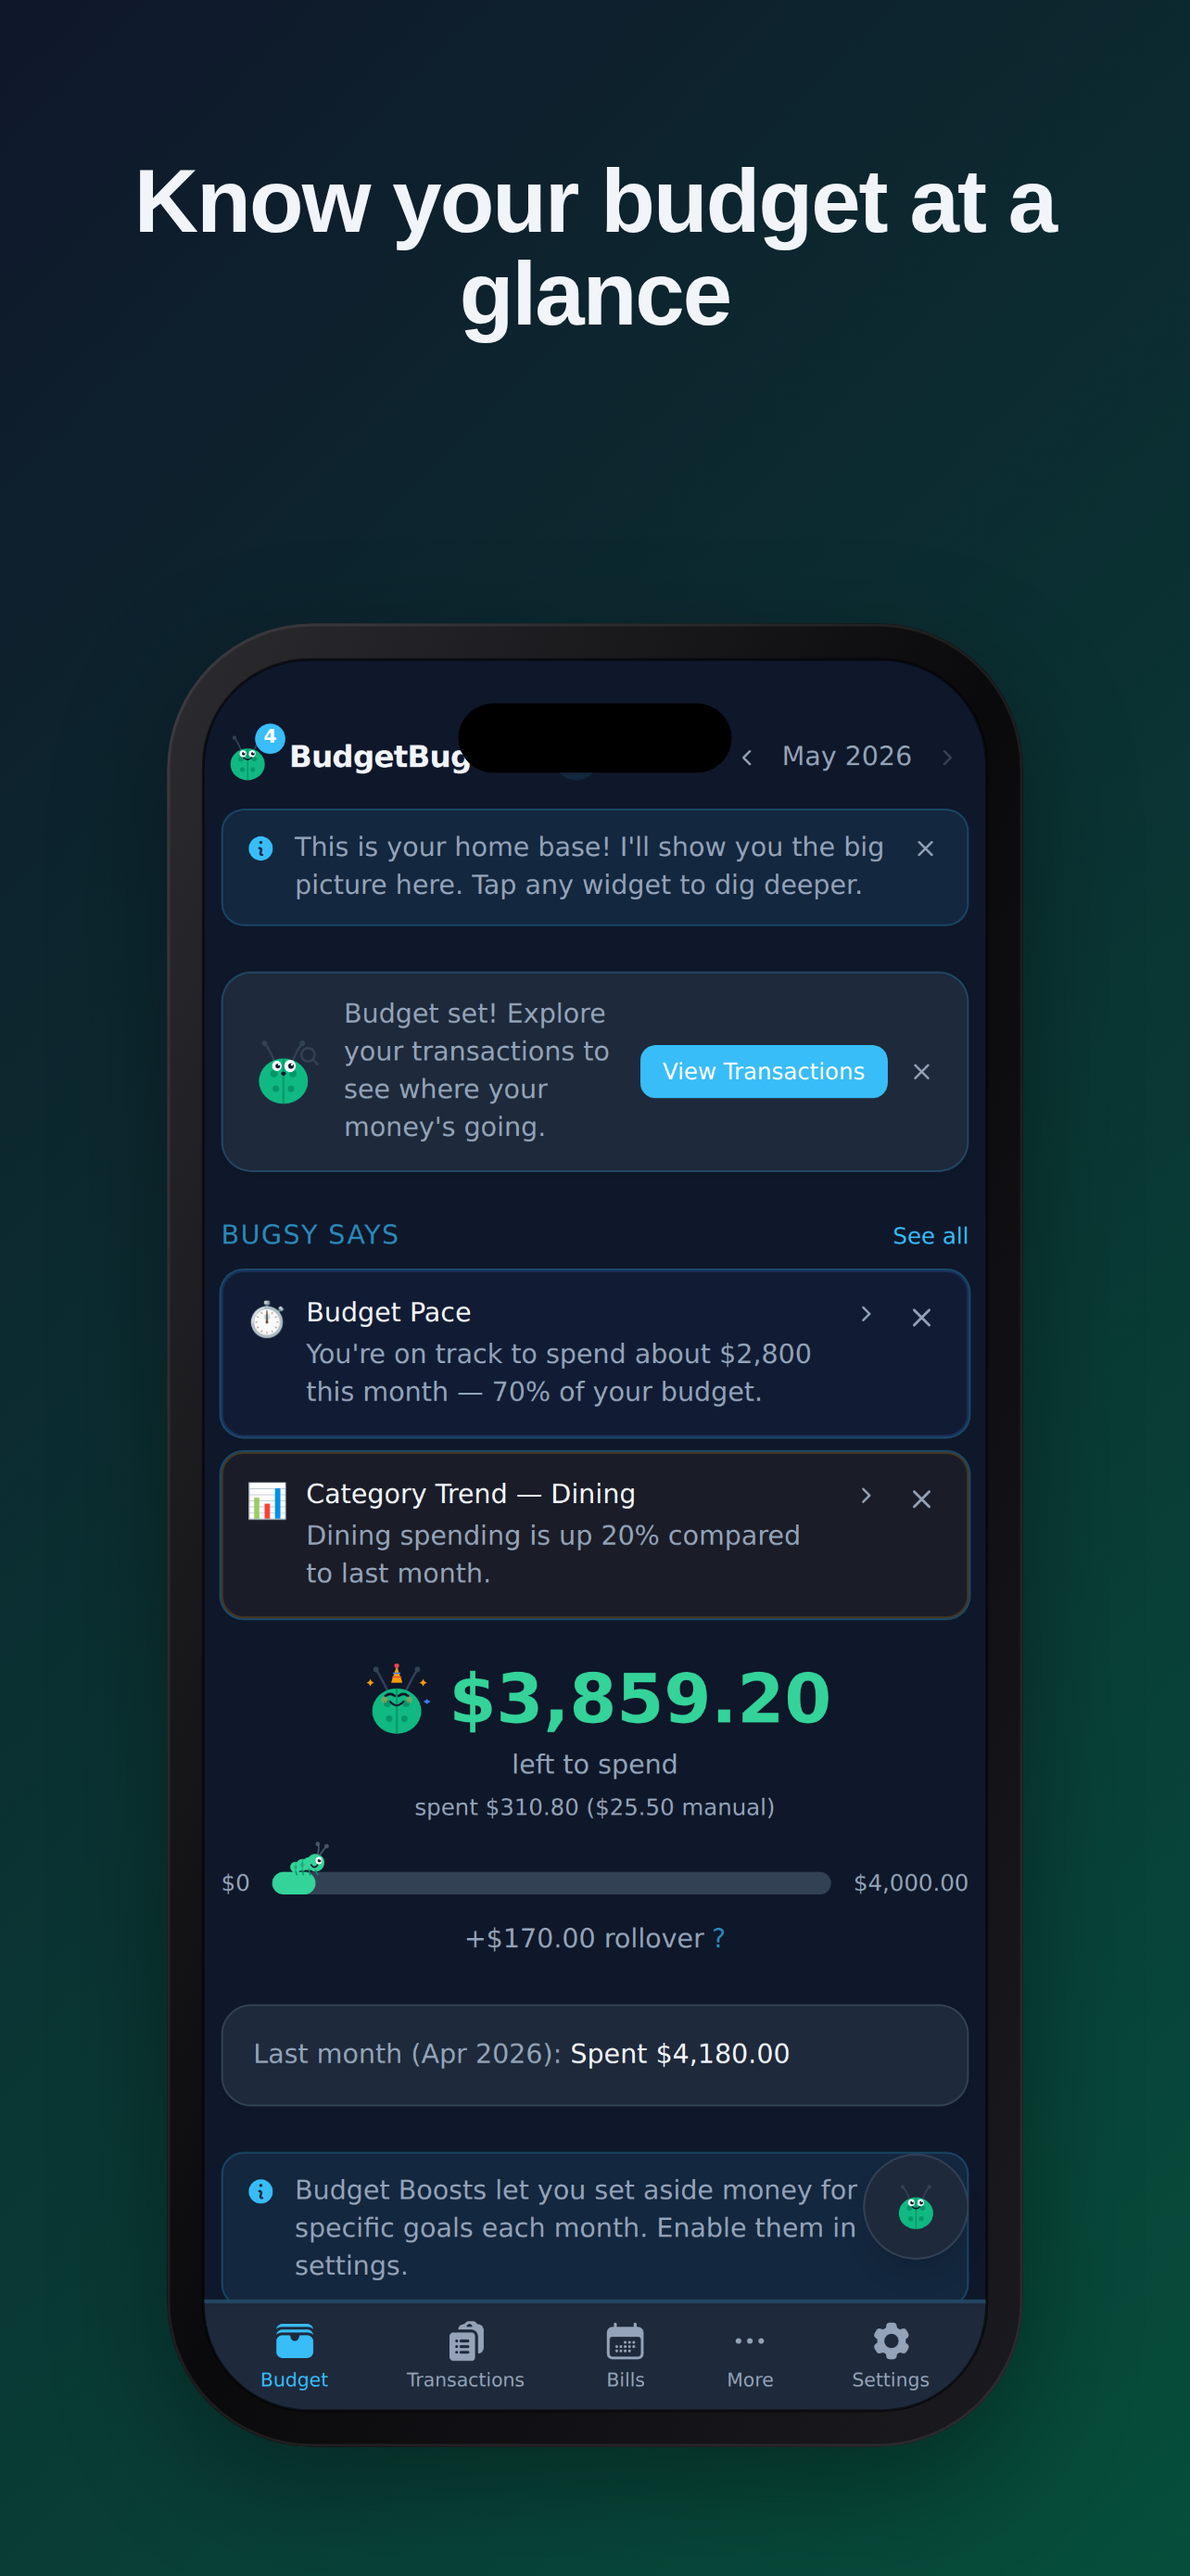
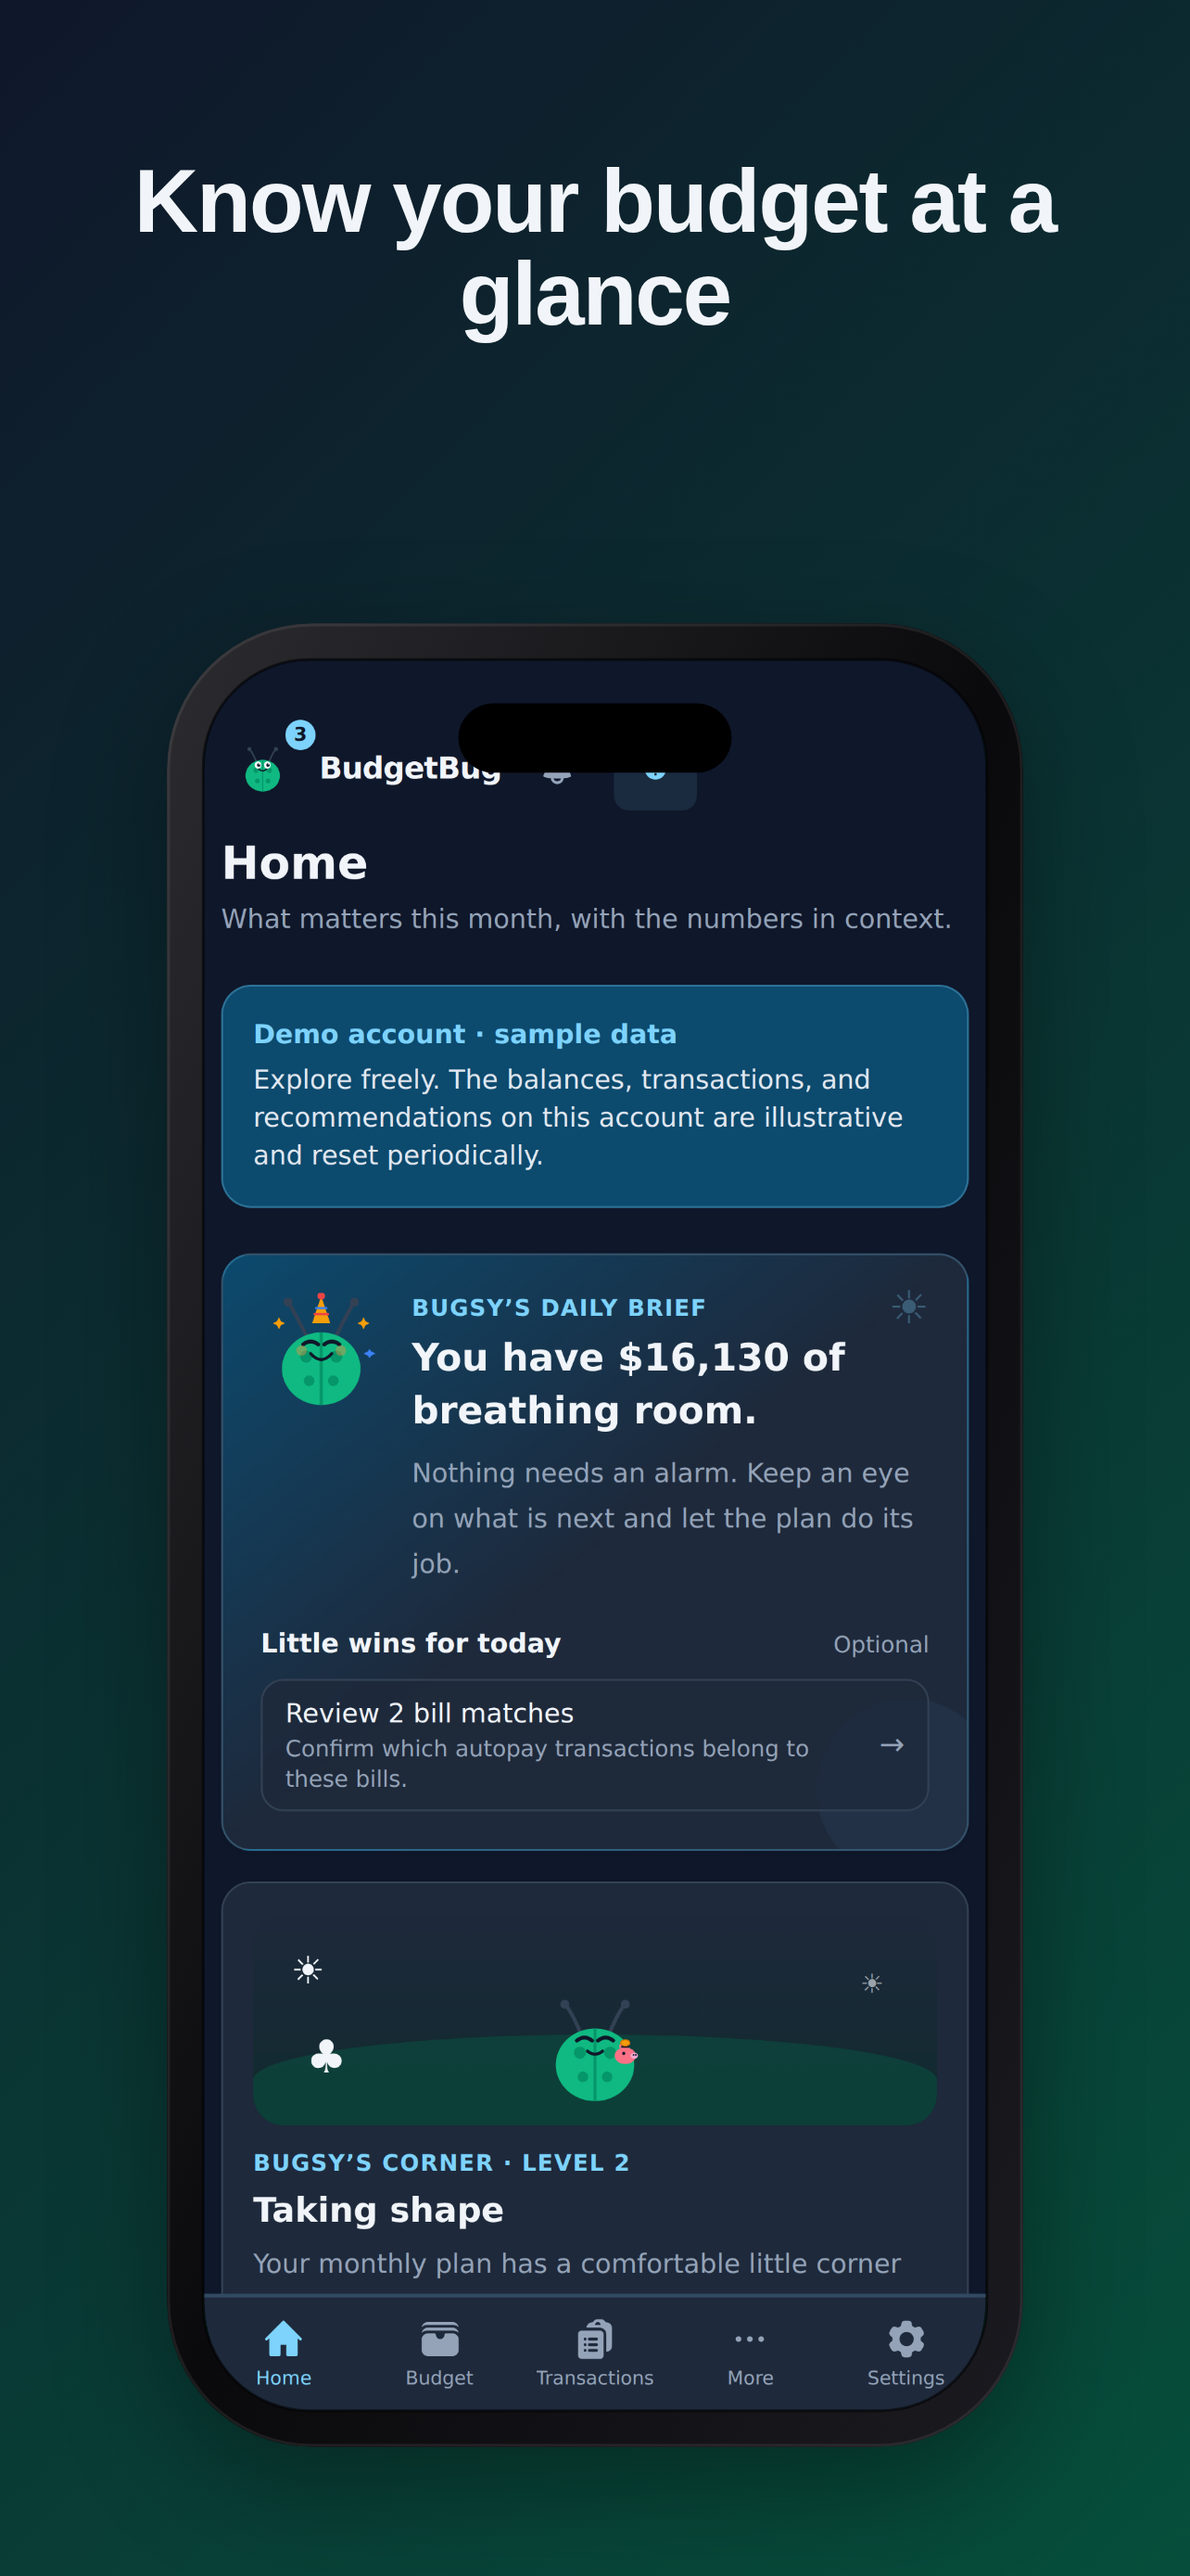
release: 1.2.1
chore(templates): regenerate samples from the committed BudgetBug fixtures

The shipped samples/*.png were rendered from an older BudgetBug capture
than the fixtures committed in 0b0a3d0, so every test run rewrote them.
This commits the 13 samples re-rendered by each template's render test
from fixtures/budgetbug/. Output dimensions are unchanged. Each was
reviewed visually before committing.

Template patch bumps (versioned only; npm publish is the manual
release.yml workflow):
  app-store-iphone, app-store-ipad, desktop-hero 1.1.2 -> 1.1.3
  play-store-phone, play-store-tablet, readme-hero, social-og-card
  1.0.2 -> 1.0.3
@shotcraft/web 1.2.0 -> 1.2.1 (the web gallery serves these samples).

Changed region(s): [[0.1869, 0.2786, 0.8411, 0.9287]]

diff --git a/packages/template-play-store-tablet/CHANGELOG.md b/packages/template-play-store-tablet/CHANGELOG.md
@@ -1,5 +1,11 @@
 # @shotcraft/template-play-store-tablet
 
+## 1.0.3
+
+### Patch Changes
+
+- Regenerate the shipped `samples/` PNGs from the current BudgetBug demo-account capture (the committed test fixtures in `fixtures/budgetbug/`). Output dimensions are unchanged; only the app screenshot inside each composite is newer.
+
 ## 1.0.2
 
 ### Patch Changes

diff --git a/packages/template-app-store-iphone/CHANGELOG.md b/packages/template-app-store-iphone/CHANGELOG.md
@@ -1,5 +1,11 @@
 # @shotcraft/template-app-store-iphone
 
+## 1.1.3
+
+### Patch Changes
+
+- Regenerate the shipped `samples/` PNGs from the current BudgetBug demo-account capture (the committed test fixtures in `fixtures/budgetbug/`). Output dimensions are unchanged; only the app screenshot inside each composite is newer.
+
 ## 1.1.2
 
 ### Patch Changes

diff --git a/packages/template-play-store-phone/CHANGELOG.md b/packages/template-play-store-phone/CHANGELOG.md
@@ -1,5 +1,11 @@
 # @shotcraft/template-play-store-phone
 
+## 1.0.3
+
+### Patch Changes
+
+- Regenerate the shipped `samples/` PNGs from the current BudgetBug demo-account capture (the committed test fixtures in `fixtures/budgetbug/`). Output dimensions are unchanged; only the app screenshot inside each composite is newer.
+
 ## 1.0.2
 
 ### Patch Changes

diff --git a/packages/template-app-store-ipad/CHANGELOG.md b/packages/template-app-store-ipad/CHANGELOG.md
@@ -1,5 +1,11 @@
 # @shotcraft/template-app-store-ipad
 
+## 1.1.3
+
+### Patch Changes
+
+- Regenerate the shipped `samples/` PNGs from the current BudgetBug demo-account capture (the committed test fixtures in `fixtures/budgetbug/`). Output dimensions are unchanged; only the app screenshot inside each composite is newer.
+
 ## 1.1.2
 
 ### Patch Changes

diff --git a/packages/template-social-og-card/CHANGELOG.md b/packages/template-social-og-card/CHANGELOG.md
@@ -1,5 +1,11 @@
 # @shotcraft/template-social-og-card
 
+## 1.0.3
+
+### Patch Changes
+
+- Regenerate the shipped `samples/` PNGs from the current BudgetBug demo-account capture (the committed test fixtures in `fixtures/budgetbug/`). Output dimensions are unchanged; only the app screenshot inside each composite is newer.
+
 ## 1.0.2
 
 ### Patch Changes

diff --git a/packages/template-desktop-hero/CHANGELOG.md b/packages/template-desktop-hero/CHANGELOG.md
@@ -1,5 +1,11 @@
 # @shotcraft/template-desktop-hero
 
+## 1.1.3
+
+### Patch Changes
+
+- Regenerate the shipped `samples/` PNGs from the current BudgetBug demo-account capture (the committed test fixtures in `fixtures/budgetbug/`). Output dimensions are unchanged; only the app screenshot inside each composite is newer.
+
 ## 1.1.2
 
 ### Patch Changes

diff --git a/packages/template-readme-hero/CHANGELOG.md b/packages/template-readme-hero/CHANGELOG.md
@@ -1,5 +1,11 @@
 # @shotcraft/template-readme-hero
 
+## 1.0.3
+
+### Patch Changes
+
+- Regenerate the shipped `samples/` PNGs from the current BudgetBug demo-account capture (the committed test fixtures in `fixtures/budgetbug/`). Output dimensions are unchanged; only the app screenshot inside each composite is newer.
+
 ## 1.0.2
 
 ### Patch Changes
